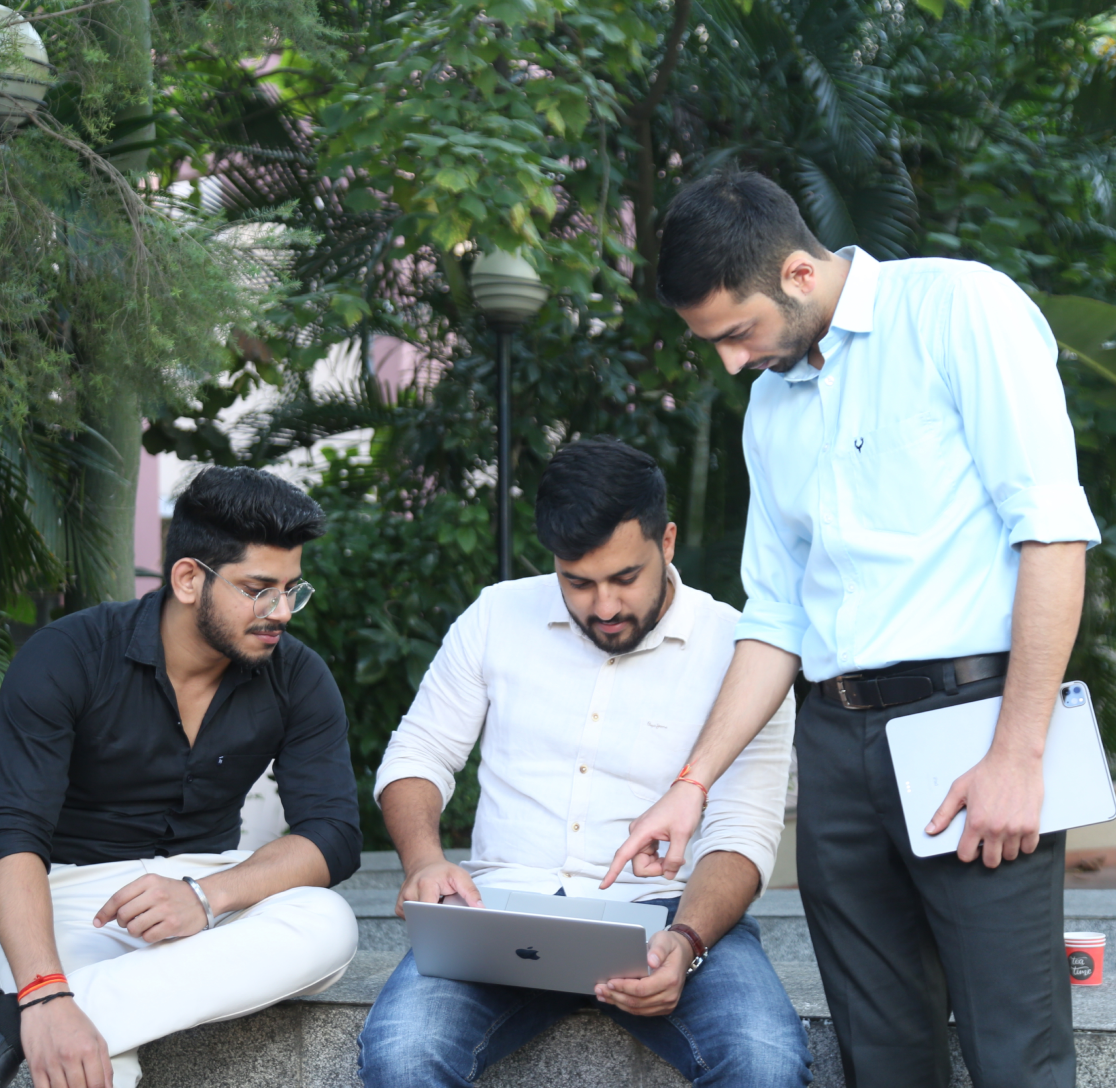
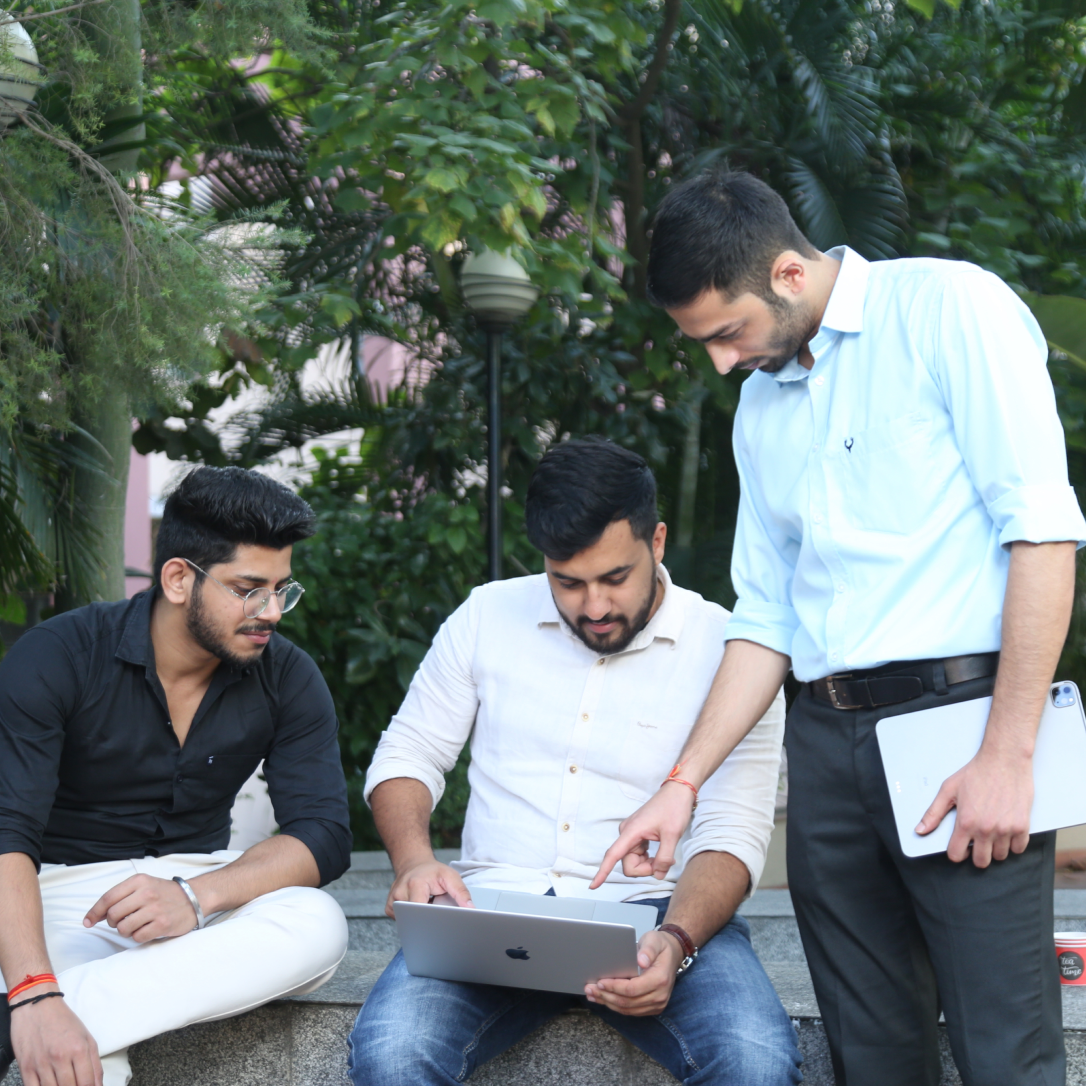
Updated UI and Fixed Warnings.

diff --git a/pages/aboutUs.js b/pages/aboutUs.js
@@ -85,7 +85,7 @@ function AboutUs() {
                     <div className='col-lg-12' >
                         <div className='row' >
                             <div className='col-lg-5 col-md-5 col-12 text-end' >
-                                <img className='about-area-6-pic-1' src='aboutUsImages/team_pic_2.png' alt='' />
+                                <img className='about-area-6-pic-1' src='aboutUsImages/team_pic_3.png' alt='' />
                             </div>
                             <div className='col-lg-2 col-md-2 col-4' >
                                 <div className='row' >
@@ -93,7 +93,7 @@ function AboutUs() {
                                         <img className='about-area-6-pics' src='aboutUsImages/team_pic_1.png' alt='' />
                                     </div>
                                     <div className='col-lg-12 about-area-6-img-outer' >
-                                        <img className='about-area-6-pics' src='aboutUsImages/team_pic_3.png' alt='' />
+                                        <img className='about-area-6-pics' src='aboutUsImages/team_pic_2.png' alt='' />
                                     </div>
                                 </div>
                             </div>
@@ -296,7 +296,13 @@ function AboutUs() {
                     <div className='col-lg-5 col-md-5' >
                         <div className='row' >
                             <div className='col-lg-12' >
-                                <img className='about-area-4-main-img' src={companyFacesDetail[companyFacesDesc][6]} alt='' />
+                                <div className='row' >
+                                    <div className='col-lg-1 col-md-12 col-1' ></div>
+                                    <div className='col-lg-10 col-md-12 col-10' >
+                                        <img className='about-area-4-main-img' src={companyFacesDetail[companyFacesDesc][6]} alt='' />
+                                    </div>
+                                    <div className='col-lg-1 col-md-12 col-1' ></div>
+                                </div>
                             </div>
                             <div className='col-lg-12 text-center' >
                                 <h5 className='about-area-4-main-name' >{companyFacesDetail[companyFacesDesc][0]}</h5>

diff --git a/pages/package.js b/pages/package.js
@@ -1,6 +1,8 @@
 import React, { useState, useRef } from 'react'
 import Slider from "react-slick";
 import SubSlider from "../components/index/services/subSlider";
+import PrevButton from '../components/prevButton';
+import NextButton from '../components/nextButton';
 
 const Package = () => {
     const designIcons = [
@@ -68,16 +70,8 @@ const Package = () => {
         slidesToScroll: 1,
         dots: false,
         arrows: true,
-        prevArrow: <button className="package__arrow js-package-prev">
-                <svg className="icon icon-arrow-prev">
-                    <use xlinkHref="img/sprite.svg#icon-arrow-prev"></use>
-                </svg>
-            </button>,
-        nextArrow: <button className="package__arrow js-package-next">
-                <svg className="icon icon-arrow-next">
-                    <use xlinkHref="img/sprite.svg#icon-arrow-next"></use>
-                </svg>
-            </button>,
+        prevArrow: <PrevButton />,
+        nextArrow: <NextButton />,
         speed: 2000,
         fade: true,
         adaptiveHeight: true,

diff --git a/pages/design.js b/pages/design.js
@@ -1,5 +1,7 @@
 import React from 'react'
 import Slider from "react-slick";
+import PrevButton from '../components/prevButton';
+import NextButton from '../components/nextButton';
 
 const Design = () => {
     const designSettings = {
@@ -7,8 +9,8 @@ const Design = () => {
         slidesToScroll: 1,
         dots: false,
         arrows: true,
-        prevArrow: <button type="button" className="slick-prev"><svg className="icon icon-arrow-prev"><use xmlnsXlink="http://www.w3.org/1999/xlink" xlinkHref="img/sprite.svg#icon-arrow-prev"></use></svg></button>,
-        nextArrow: <button type="button" className="slick-next"><svg className="icon icon-arrow-next"><use xmlnsXlink="http://www.w3.org/1999/xlink" xlinkHref="img/sprite.svg#icon-arrow-next"></use></svg></button>,
+        prevArrow: <PrevButton />,
+        nextArrow: <NextButton />,
         speed: 700,
         infinite: true,
         autoplay: true,

diff --git a/pages/buildingPicsSlider.js b/pages/buildingPicsSlider.js
@@ -1,5 +1,7 @@
 import React, { Component } from "react";
 import Slider from "react-slick";
+import PrevButton from "../components/prevButton";
+import NextButton from "../components/nextButton";
 
 const BuildingPicsSlider = () => {
     const settings = {
@@ -10,11 +12,13 @@ const BuildingPicsSlider = () => {
         slidesToShow: 1,
         speed: 500,
         arrows: true,
+        prevArrow: <PrevButton />,
+        nextArrow: <NextButton />,
         variableWidth: true
     };
     return (
         <>
-            <div className='container my-5' >
+            <div className='container my-5 about-area-9' >
                 <div className='row' >
                     <div className='col-lg-12 text-center' >
                         <h2 className='mb-5 about-area-4-heading' >

diff --git a/styles/globals.css b/styles/globals.css
@@ -2245,6 +2245,27 @@ body:not(.touch-device) .header-item[href]:before {
   font-size: 60px;
   padding-top: 5rem;
 }
+
+.about-area-9 .slick-arrow {
+  background-color: #5956E9;
+  border-radius: 50%;
+  display: flex !important;
+  height: 40px;
+  width: 40px;
+  align-items: center;
+  justify-content: center;
+  position: absolute;
+  top: 50%;
+  transform: translateY(-50%);
+}
+
+.about-area-9 .slick-prev {
+  left: -25px;
+}
+
+.about-area-9 .slick-next {
+  right: -25px;
+}
 /* About Us Component CSS End */
 
 /* Like Component CSS Start */

diff --git a/components/nextButton.js b/components/nextButton.js
@@ -1,0 +1,14 @@
+import React from 'react'
+
+const NextButton = (props) => {
+  const { className, style, onClick } = props;
+  return (
+    <button className={className} style={{ ...style }} onClick={onClick} >
+        <svg className="icon icon-arrow-next">
+            <use xlinkHref="img/sprite.svg#icon-arrow-next"></use>
+        </svg>
+    </button>
+  )
+}
+
+export default NextButton

diff --git a/components/prevButton.js b/components/prevButton.js
@@ -1,0 +1,14 @@
+import React from 'react'
+
+const PrevButton = (props) => {
+  const { className, style, onClick } = props;
+  return (
+    <button className={className} style={{ ...style }} onClick={onClick} >
+      <svg className="icon icon-arrow-prev">
+          <use xlinkHref="img/sprite.svg#icon-arrow-prev"></use>
+      </svg>
+    </button>
+  )
+}
+
+export default PrevButton
